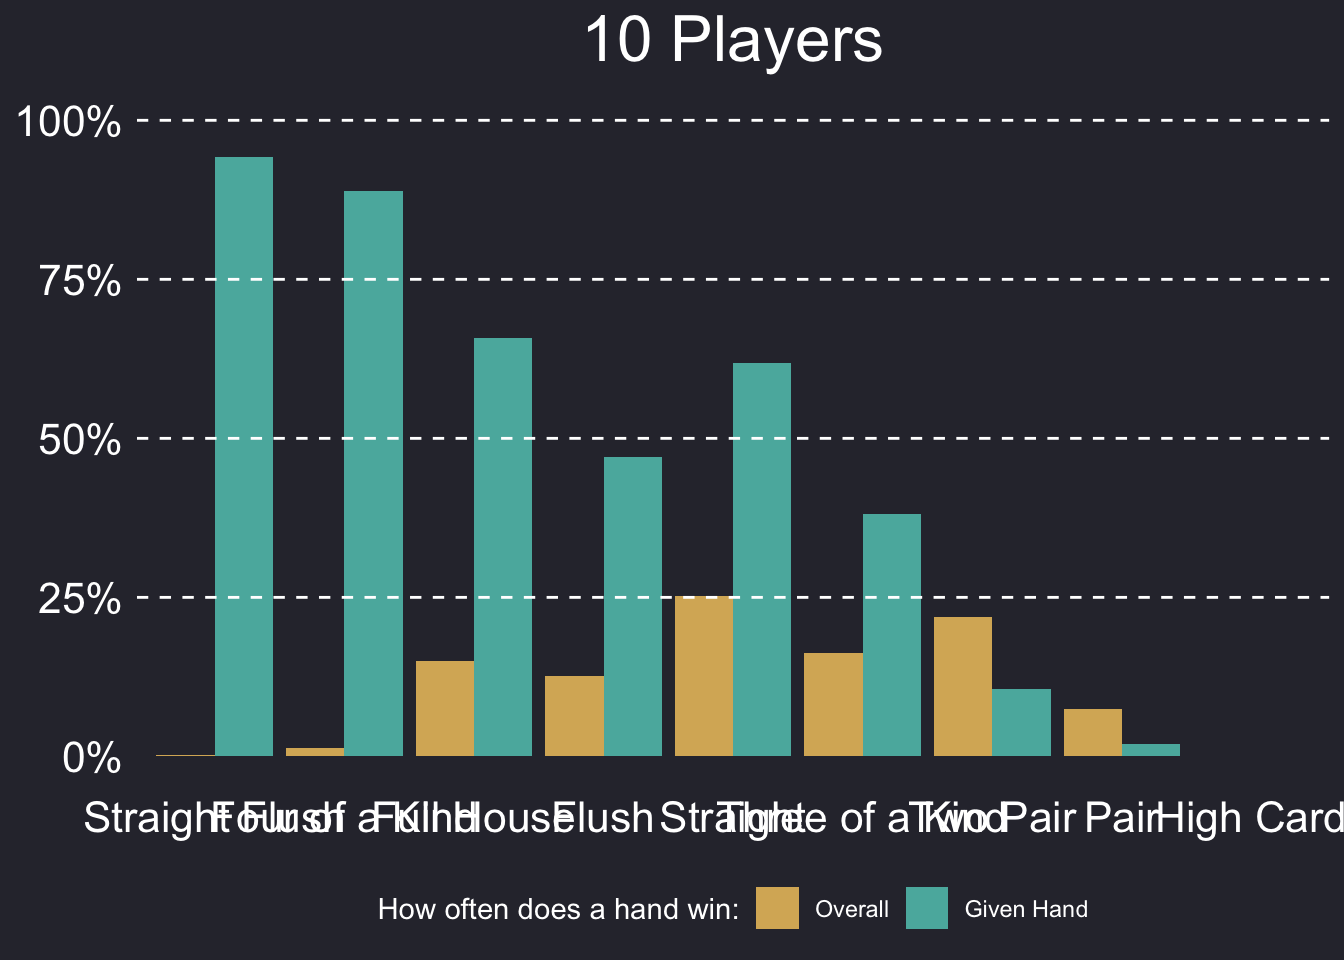
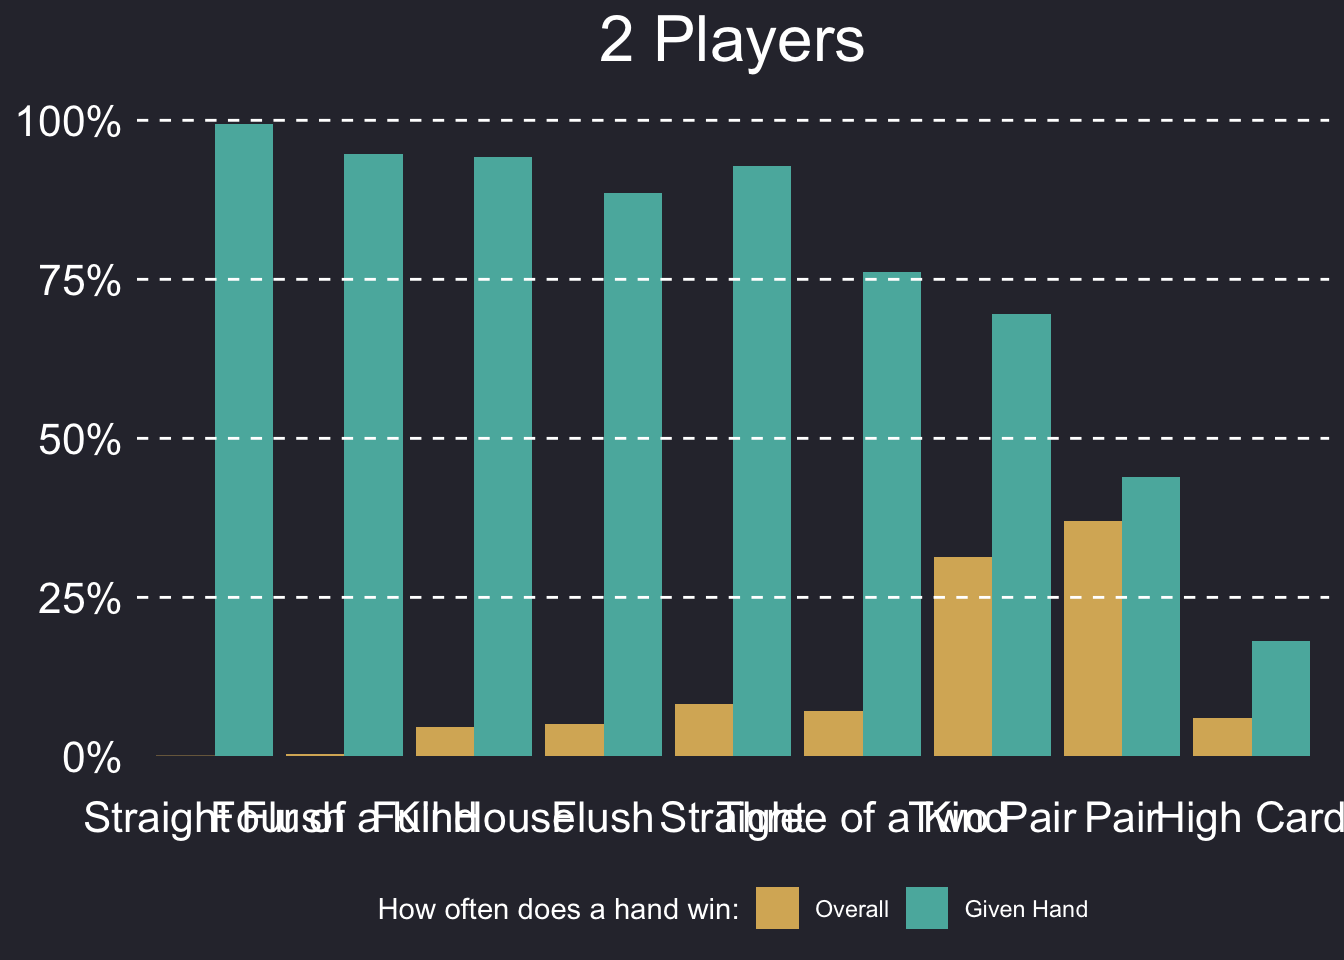
Update color

diff --git a/public/post/intro-poker-data/index.html b/public/post/intro-poker-data/index.html
@@ -406,7 +406,7 @@ load(sprintf(&quot;%s/2020-01-TexasHoldem-Analysis-pt1.Rdata&quot;, pathtofile))
 <p>These are how often these hands are created (assuming people all stay in)
 but how often do these hands win overall and given the person has them
 Now is time to show differences in results between the different number of players</p>
-<pre class="r"><code>print(p2)</code></pre>
+<pre class="r"><code>print(p1)</code></pre>
 <p><img src="/post/2020-04-TexasHoldem-Analysis-pt1_files/figure-html/unnamed-chunk-1-1.png" width="672" /></p>
 <p>This also raises the question of: if I have a good hand what am I mostly likely to lose to?</p>
 <p>These all help us think of the end strategy but we still haven’t answered the question of where to start</p>

diff --git a/content/post/2020-04-TexasHoldem-Analysis-pt1.html b/content/post/2020-04-TexasHoldem-Analysis-pt1.html
@@ -94,7 +94,7 @@ load(sprintf(&quot;%s/2020-01-TexasHoldem-Analysis-pt1.Rdata&quot;, pathtofile))
 <p>These are how often these hands are created (assuming people all stay in)
 but how often do these hands win overall and given the person has them
 Now is time to show differences in results between the different number of players</p>
-<pre class="r"><code>print(p2)</code></pre>
+<pre class="r"><code>print(p1)</code></pre>
 <p><img src="/post/2020-04-TexasHoldem-Analysis-pt1_files/figure-html/unnamed-chunk-1-1.png" width="672" /></p>
 <p>This also raises the question of: if I have a good hand what am I mostly likely to lose to?</p>
 <p>These all help us think of the end strategy but we still haven’t answered the question of where to start</p>
